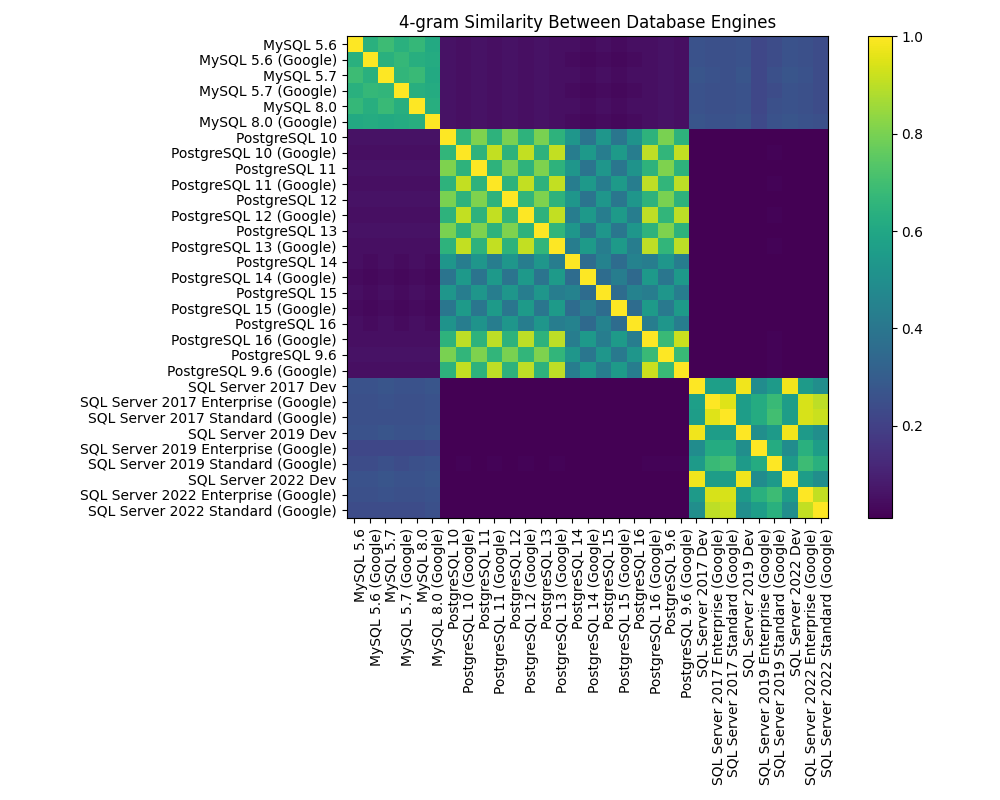
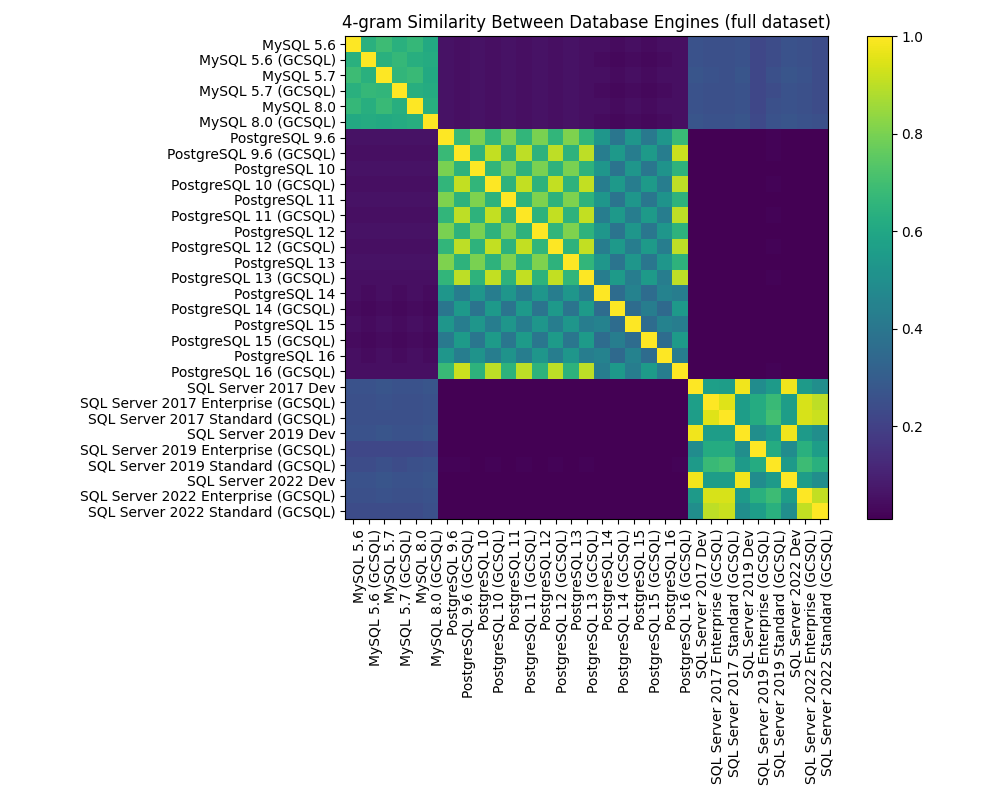
sort pg versions

Changed region(s): [[0.062, 0.0, 0.837, 1.0], [0.403, 0.125, 0.434, 0.1562]]

diff --git a/experimental/result_summary.py b/experimental/result_summary.py
@@ -12,11 +12,17 @@ def generate_tables(data):
     data: A list of dictionaries, where each dictionary contains information 
           about a pair of database engines and their similarity scores.
   """
+  def sort_key(engine):
+    return engine.replace('9.', '09.') # PG 9.6 hack
+  
+  engines = sorted(({d['database engine 1'] for d in data} | 
+                   {d['database engine 2'] for d in data}), key=sort_key)
+  
+  escaped_engines = sorted(({d['database engine 1'].replace("_", "\\_") for d in data} | 
+                           {d['database engine 2'].replace("_", "\\_") for d in data}), key=sort_key)
 
-  # Extract unique database engines
-  engines = sorted({d['database engine 1'] for d in data} | {d['database engine 2'] for d in data})
-  escaped_engines = sorted({d['database engine 1'].replace("_", "\\_") for d in data} | 
-                  {d['database engine 2'].replace("_", "\\_") for d in data})
+  print(engines)
+  print(escaped_engines)
   similarity_array = np.zeros((len(engines), len(engines)))  # Initialize for heatmap
 
   # Create a dictionary to store similarity scores for each engine pair
@@ -24,12 +30,14 @@ def generate_tables(data):
   for d in data:
     engine1 = d['database engine 1']
     engine2 = d['database engine 2']
-    score = round(float(d['4-gram similarity']), 2)
     similarity_matrix[(engine1, engine2)] = {
         '2-gram': round(float(d['2-gram similarity']), 2),  # Round to 2 decimals
         '3-gram': round(float(d['3-gram similarity']), 2),
         '4-gram': round(float(d['4-gram similarity']), 2)
     }
+
+
+    score = round(float(d['4-gram similarity']), 2)
     i = engines.index(engine1)
     j = engines.index(engine2)
     similarity_array[i, j] = score 
@@ -73,7 +81,7 @@ def generate_tables(data):
   plt.setp(ax.get_xticklabels(), rotation=90, ha="right",
            rotation_mode="anchor")
 
-  ax.set_title("4-gram Similarity Between Database Engines (non-human readable dataset only)")
+  ax.set_title("4-gram Similarity Between Database Engines (full dataset)")
   fig.tight_layout()
 
   plt.colorbar(im)  # Add a colorbar
@@ -116,21 +124,21 @@ def humanize_db_name(name):
       return f"PostgreSQL {parts[1]}"
     elif len(parts) == 3:
       if parts[2] == 'gcp':
-        return f"PostgreSQL {parts[1]} (Google)"
+        return f"PostgreSQL {parts[1]} (GCSQL)"
       else:
         return f"PostgreSQL {parts[1]}.{parts[2]}"
     elif len(parts) == 4:
-      return f"PostgreSQL {parts[1]}.{parts[2]} (Google)"
+      return f"PostgreSQL {parts[1]}.{parts[2]} (GCSQL)"
   elif parts[0] == 'sqlserver':
     if len(parts) == 3:
       return f"SQL Server {parts[1]} {parts[2].title()}"
     elif len(parts) == 4:
-      return f"SQL Server {parts[1]} {parts[2].title()} (Google)"
+      return f"SQL Server {parts[1]} {parts[2].title()} (GCSQL)"
   elif parts[0] == 'mysql':
     if len(parts) == 3:
       return f"MySQL {parts[1]}.{parts[2]}"
     elif len(parts) == 4:
-      return f"MySQL {parts[1]}.{parts[2]} (Google)"
+      return f"MySQL {parts[1]}.{parts[2]} (GCSQL)"
   return name  # Return the original name if no match is found
 
 def parse_files(folder_path):
@@ -165,7 +173,7 @@ def parse_files(folder_path):
   return data
 
 if __name__ == "__main__":
-  folder_path = "/Users/raresfolea/code/project-martial/experimental/results_no_alphanumeric"
+  folder_path = "/Users/raresfolea/code/project-martial/experimental/results"
   parsed_data = parse_files(folder_path)
   # pprint.pprint(parsed_data)
   latex_code, markdown_table = generate_tables(parsed_data)
